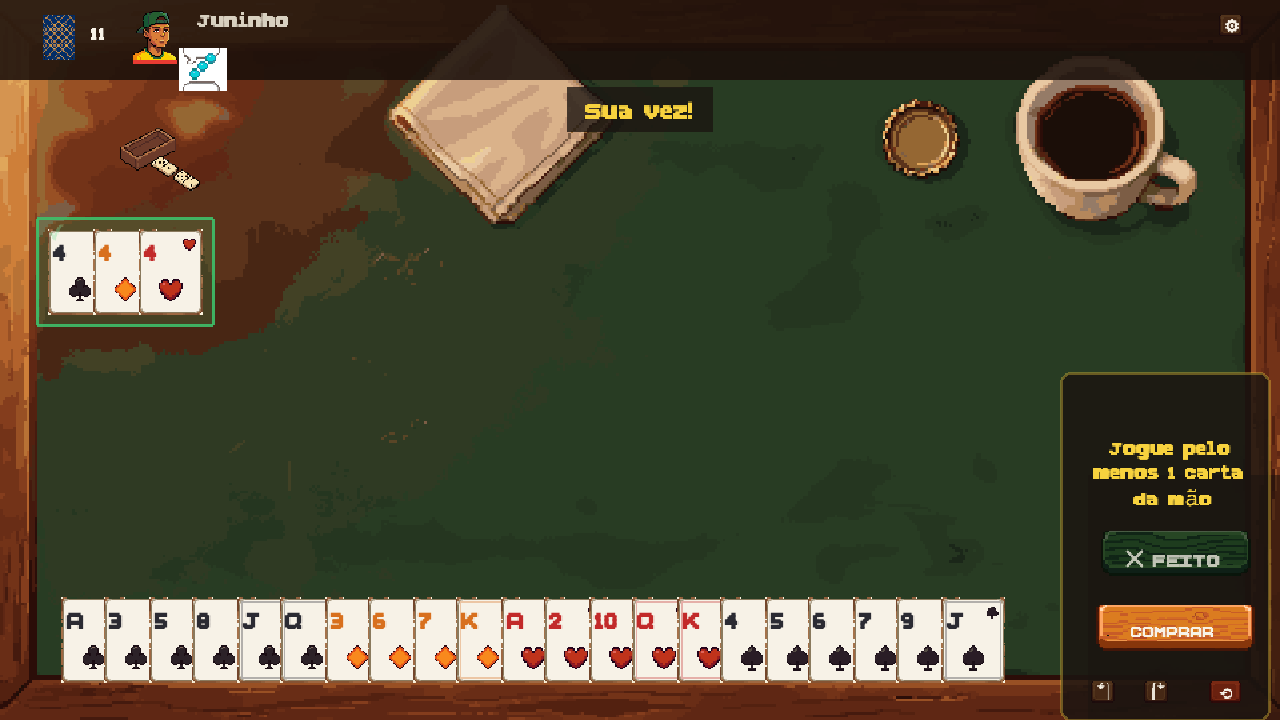
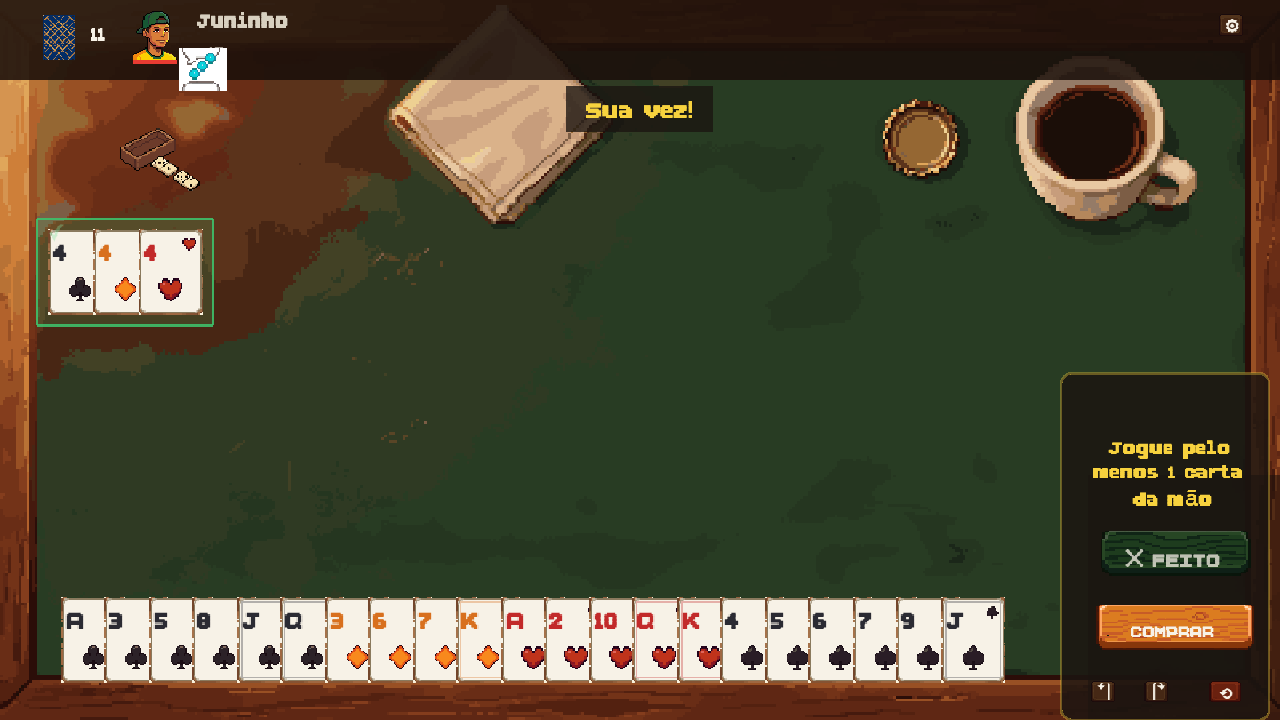
perf: raise render scale to 3x for near-native pixels on 1080p+
At 2x the canvas was 960x540, still upscaled by the browser on any display
larger than that. 3x puts the backing store at 1440x810, so on a 1080p-class
window sprites land close to one texture pixel per device pixel, and the
480x270 backgrounds still scale by a whole number (3x) rather than a
fractional one.

Claude-Session: https://claude.ai/code/session_018kmxzebQEbfQQaFmCD8wdu

diff --git a/src/main.ts b/src/main.ts
@@ -16,7 +16,7 @@ installDebugApi();
 // so scene code keeps using plain 480x270 coordinates.
 const WORLD_W = 480;
 const WORLD_H = 270;
-const RENDER_SCALE = 2;
+const RENDER_SCALE = 3;
 
 const game = new Phaser.Game({
   type: Phaser.AUTO,
